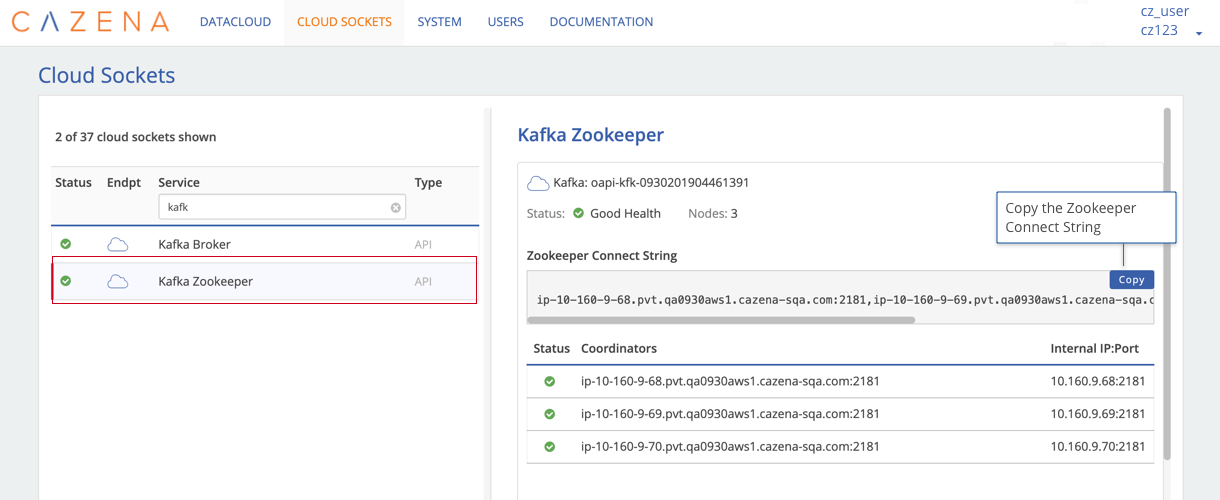
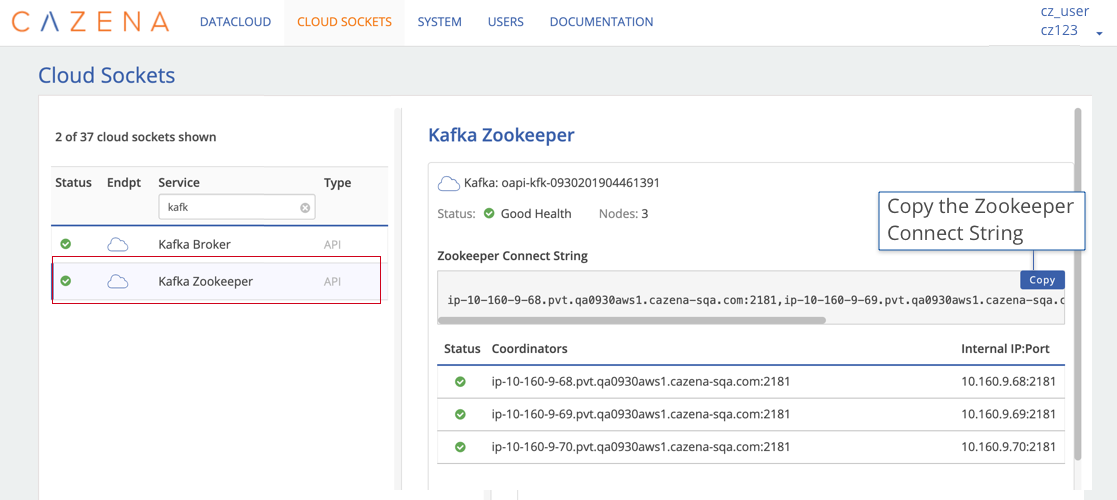
Update screenshots Remove outdated sections

diff --git a/_site/index.html b/_site/index.html
@@ -151,15 +151,15 @@ sasl.jaas.config=com.sun.security.auth.module.Krb5LoginModule required \
 <button class="btn clipboard-btn" data-clipboard-target="#kafka-consumer-string">Copy</button>
 </div>
 
-<ul>
+<ul class="indent">
   <li>Replace <strong>BootstrapBrokerString</strong> with the string copied from the Kafka Broker cloud socket page.</li>
   <li>Replace <strong>client.properties</strong> with the name of the file that you created in step 1.</li>
   <li>Replace <strong>yourtopic</strong> with your kafka topic.</li>
 </ul>
 
-<h5 class="indent indent" id="topic">Topic</h5>
+<h5 class="indent" id="topic">Topic</h5>
 
-<p><img src="assets/documentation/cloud_sockets/kafka_zookeeper.png" alt=" Kafka Broker String " title="Kafka Zookeeper String" /></p>
+<p class="indent"><img src="assets/documentation/cloud_sockets/kafka_zookeeper.png" alt=" Kafka Broker String " title="Kafka Zookeeper String" /></p>
 
 <div class="code-wrapper">
 <pre class="indent copy-area" id="kafka-topic-string">kafka-topics --create --zookeeper <span style="color:red">ZookeeperConnectString</span> --replication-factor 1 --partitions 1 --topic <span style="color:red">yourtopic</span> 
@@ -216,7 +216,7 @@ sasl.jaas.config=com.sun.security.auth.module.Krb5LoginModule required \
   <li>Add <code class="highlighter-rouge">,SSL=1</code> to the connection string, before the final parentheses.</li>
 </ol>
 
-<p><img src="assets/documentation/cloud_sockets/hive_connection.png" alt=" Hive Connection " title="Hive Connection" /></p>
+<p class="indent"><img src="assets/documentation/cloud_sockets/hive_connection.png" alt=" Hive Connection " title="Hive Connection" /></p>
 
 <hr class="end-section" />
 
@@ -371,49 +371,6 @@ HIVE_HOME=/opt/cloudera/parcels/CDH/lib/hive
 
 <hr class="end-section" />
 
-<h2 id="sql_workbench">Use JDBC to connect to SQL Workbench</h2>
-
-<p>This example shows how to use SQL Workbench to query a database in a data mart.</p>
-
-<ul>
-  <li>You can download SQL Workbench <a href="http://www.sql-workbench.net/downloads.html" target="_blank">here</a>.</li>
-  <li>You will also need a postgreSQL JDBC driver, which you can download <a href="https://jdbc.postgresql.org/download.html" target="_blank">here</a>.</li>
-</ul>
-
-<p class="step">Step 1: Copy the IP Address and Port for MPP SQL</p>
-
-<ol>
-  <li>In the Cazena console: From the <strong>Cloud Sockets</strong> tab, select <strong>MPP SQL</strong> on the left side of the screen.</li>
-  <li>Under <strong>From inside the datacloud</strong>, copy the <strong>Internal IP:Port</strong> address and port.</li>
-</ol>
-
-<p class="indent"><img src="assets/documentation/cloud_sockets/mpp_sql.png" alt=" MPP SQL " title="MPP SQL" /></p>
-
-<p class="step">Step 1: Paste the IP Address and Port into SQL Workbench</p>
-
-<ol>
-  <li>Start SQL Workbench, then select <strong>File</strong> &gt; <strong>Connect Window</strong>.</li>
-  <li>Select a PostgreSQL JDBC driver (download here)</li>
-  <li>
-    <p>Enter the URL:</p>
-
-    <p><code class="highlighter-rouge">jdbc:postgres://IP ADDRESS:PORT/czdataset</code></p>
-
-    <p>where:</p>
-
-    <ul>
-      <li>IP ADDRESS:PORT comes from the Cloud Sockets tab.</li>
-      <li>If you moved data using the Cazena console, use <strong>czdataset</strong> as the name of the database.</li>
-    </ul>
-  </li>
-  <li>Ask your system administrator for the username and password.</li>
-</ol>
-
-<p class="image-no-outline"><img src="assets/documentation/cloud_sockets/SQL_workbench.png" alt=" SQL Workbench " title="SQL Workbench" /></p>
-
-<p class="note"><strong>Note:</strong> Data moved to a Cazena data mart goes into a database named <strong>czdataset</strong>. The schema name matches the name of the dataset used when moving data into the cloud.</p>
-
-<hr class="end-section" />
 
         </section>
 
@@ -1124,36 +1081,6 @@ Beginning Download Tests:
 Complete
 </code></pre></div></div>
 
-<p><br />
-<strong>Measure latency and throughput from an external Linux or Mac system:</strong></p>
-
-<p>You can use <code class="highlighter-rouge">nping</code> and <code class="highlighter-rouge">wget</code> to measure latency and throughput through the Cazena gateway.</p>
-
-<ol>
-  <li>
-    <p>On the <strong>Cloud Sockets</strong> tab, select <strong>Cazena Console</strong> on the left side of the screen.</p>
-
-    <p><img src="assets/documentation/cazena_gateway/cgw_ip_port.png" alt=" Cazena Gateway IP and port " title="Cazena Gateway IP and port" /></p>
-  </li>
-  <li>
-    <p>Use <strong>IP Address:Port</strong> to run these commands:</p>
-
-    <ul class="list-unstyled">
-      <li><code class="highlighter-rouge">nping &lt;IP address&gt; -p &lt;PORT&gt;</code></li>
-      <li><code class="highlighter-rouge">wget -O /dev/null http://&lt;IP address&gt;:&lt;PORT&gt; /CazenaGateway.ova</code>
- *</li>
-    </ul>
-
-    <p><br />
-<strong>Example:</strong></p>
-
-    <ul class="list-unstyled">
-      <li><code class="highlighter-rouge">nping 	192.131.12.2 -p 11092</code></li>
-      <li><code class="highlighter-rouge">wget -O /dev/null http://192.131.12.2:11092/CazenaGateway.ova</code></li>
-    </ul>
-  </li>
-</ol>
-
 <h2 id="cgw_delete">Stop and Delete a Cazena Gateway</h2>
 
 <p><strong>To stop a Cazena gateway:</strong></p>
@@ -1207,7 +1134,7 @@ Complete
 
 <h2 id="create_users">Create User Accounts</h2>
 
-<p class="step">Before You Start</p>
+<p class="step">For Port Forwarding Configurations</p>
 
 <p class="list">If your site is using a <a href="#port-forwarding-cgw">port forwarding</a> configuration, you must have a Cazena gateway running before you can create new user accounts. In addition, the Cazena console must be enabled on that gateway:</p>
 
@@ -1247,97 +1174,31 @@ Complete
   </thead>
   <tbody>
     <tr>
-      <td>Service Page</td>
-      <td style="text-align: center"><span class="icon-checkmark"></span></td>
-      <td style="text-align: center"><span class="icon-checkmark"></span></td>
-      <td style="text-align: center"><span class="icon-checkmark"></span></td>
-    </tr>
-    <tr>
-      <td>Transfers</td>
-      <td style="text-align: center"><span class="icon-checkmark"></span></td>
-      <td style="text-align: center"><span class="icon-checkmark"></span></td>
-      <td style="text-align: center"><span class="icon-checkmark"></span></td>
-    </tr>
-    <tr>
-      <td>Move Data</td>
-      <td style="text-align: center"><span class="icon-checkmark"></span></td>
-      <td style="text-align: center"> </td>
-      <td style="text-align: center"> </td>
-    </tr>
-    <tr>
-      <td>Modify Datasets</td>
-      <td style="text-align: center"><span class="icon-checkmark"></span></td>
-      <td style="text-align: center"> </td>
-      <td style="text-align: center"> </td>
-    </tr>
-    <tr>
-      <td>Add User</td>
-      <td style="text-align: center"><span class="icon-checkmark"></span></td>
-      <td style="text-align: center"> </td>
-      <td style="text-align: center"> </td>
-    </tr>
-    <tr>
-      <td>Delete User</td>
-      <td style="text-align: center"><span class="icon-checkmark"></span></td>
-      <td style="text-align: center"> </td>
-      <td style="text-align: center"> </td>
-    </tr>
-    <tr>
-      <td>Modify User</td>
-      <td style="text-align: center"><span class="icon-checkmark"></span></td>
-      <td style="text-align: center"> </td>
-      <td style="text-align: center"> </td>
-    </tr>
-    <tr>
-      <td>Dashboard Page</td>
-      <td style="text-align: center"><span class="icon-checkmark"></span></td>
-      <td style="text-align: center"><span class="icon-checkmark"></span></td>
-      <td style="text-align: center"><span class="icon-checkmark"></span></td>
-    </tr>
-    <tr>
-      <td>Workloads Page</td>
-      <td style="text-align: center"><span class="icon-checkmark"></span></td>
-      <td style="text-align: center"><span class="icon-checkmark"></span></td>
-      <td style="text-align: center"><span class="icon-checkmark"></span></td>
-    </tr>
-    <tr>
-      <td>System Page</td>
-      <td style="text-align: center"><span class="icon-checkmark"></span></td>
-      <td style="text-align: center"><span class="icon-checkmark"></span></td>
-      <td style="text-align: center"><span class="icon-checkmark"></span></td>
-    </tr>
-    <tr>
-      <td>Edit Cloud Sockets</td>
-      <td style="text-align: center"><span class="icon-checkmark"></span></td>
-      <td style="text-align: center"> </td>
-      <td style="text-align: center"> </td>
-    </tr>
-    <tr>
       <td>View Cloud Sockets</td>
       <td style="text-align: center"><span class="icon-checkmark"></span></td>
       <td style="text-align: center"><span class="icon-checkmark"></span></td>
       <td style="text-align: center"><span class="icon-checkmark"></span></td>
     </tr>
     <tr>
-      <td>Create/Edit Data Store</td>
-      <td style="text-align: center"><span class="icon-checkmark"></span></td>
-      <td style="text-align: center"><span class="icon-checkmark"></span></td>
-      <td style="text-align: center"> </td>
-    </tr>
-    <tr>
-      <td>Delete Data Store</td>
-      <td style="text-align: center"><span class="icon-checkmark"></span></td>
-      <td style="text-align: center"><span class="icon-checkmark"></span></td>
-      <td style="text-align: center"> </td>
-    </tr>
-    <tr>
-      <td>Access to Admin Tools Menu</td>
+      <td>Manage Cloud Sockets</td>
       <td style="text-align: center"><span class="icon-checkmark"></span></td>
       <td style="text-align: center"> </td>
       <td style="text-align: center"> </td>
     </tr>
     <tr>
-      <td>Access to Log Server Console</td>
+      <td>Manage Users and Groups</td>
+      <td style="text-align: center"><span class="icon-checkmark"></span></td>
+      <td style="text-align: center"> </td>
+      <td style="text-align: center"> </td>
+    </tr>
+    <tr>
+      <td>View Cazena Gateways</td>
+      <td style="text-align: center"><span class="icon-checkmark"></span></td>
+      <td style="text-align: center"><span class="icon-checkmark"></span></td>
+      <td style="text-align: center"><span class="icon-checkmark"></span></td>
+    </tr>
+    <tr>
+      <td>Manage Cazena Gateways</td>
       <td style="text-align: center"><span class="icon-checkmark"></span></td>
       <td style="text-align: center"> </td>
       <td style="text-align: center"> </td>

diff --git a/_sections/users.md b/_sections/users.md
@@ -5,7 +5,7 @@ Cazena support will create a system administrator account. The administrator wil
 
 ## Create User Accounts {#create_users}
 
-Before You Start
+For Port Forwarding Configurations
 {:.step}
 
 If your site is using a [port forwarding](#port-forwarding-cgw) configuration, you must have a Cazena gateway running before you can create new user accounts. In addition, the Cazena console must be enabled on that gateway:
@@ -37,23 +37,11 @@ Privileges for the different Cazena user roles are as follows:
 
 | Feature             | System Admin                         | Application Support                  | Data Analyst                         |
 |----------------------------|:------------------------------------:|:------------------------------------:|:------------------------------------:|
-| Service Page               | <span class="icon-checkmark"></span> | <span class="icon-checkmark"></span> | <span class="icon-checkmark"></span> |
-| Transfers                  | <span class="icon-checkmark"></span> | <span class="icon-checkmark"></span> | <span class="icon-checkmark"></span> |
-| Move Data                  | <span class="icon-checkmark"></span> |    | |
-| Modify Datasets            | <span class="icon-checkmark"></span> |      |      |
-| Add User                   | <span class="icon-checkmark"></span> |      |      |
-| Delete User                | <span class="icon-checkmark"></span> |      |      |
-| Modify User                | <span class="icon-checkmark"></span> |      |      |
-| Dashboard Page             | <span class="icon-checkmark"></span> | <span class="icon-checkmark"></span> | <span class="icon-checkmark"></span> |
-| Workloads Page             | <span class="icon-checkmark"></span> | <span class="icon-checkmark"></span> | <span class="icon-checkmark"></span> |
-| System Page                | <span class="icon-checkmark"></span> | <span class="icon-checkmark"></span> | <span class="icon-checkmark"></span> |
-| Edit Cloud Sockets         | <span class="icon-checkmark"></span> |      |      |
-| View Cloud Sockets         | <span class="icon-checkmark"></span> | <span class="icon-checkmark"></span> | <span class="icon-checkmark"></span> |
-| Create/Edit Data Store     | <span class="icon-checkmark"></span> | <span class="icon-checkmark"></span> |      |
-| Delete Data Store          | <span class="icon-checkmark"></span> | <span class="icon-checkmark"></span> |      |
-| Access to Admin Tools Menu | <span class="icon-checkmark"></span> |      |      | 
-| Access to Log Server Console | <span class="icon-checkmark"></span> |      |      |
-
+| View Cloud Sockets               | <span class="icon-checkmark"></span> | <span class="icon-checkmark"></span> | <span class="icon-checkmark"></span> |
+| Manage Cloud Sockets         | <span class="icon-checkmark"></span> |      |      |
+| Manage Users and Groups                   | <span class="icon-checkmark"></span> |      |      |
+| View Cazena Gateways        | <span class="icon-checkmark"></span> | <span class="icon-checkmark"></span> | <span class="icon-checkmark"></span> |
+| Manage Cazena Gateways        | <span class="icon-checkmark"></span> |  |  |
 
 
 ## Create Groups

diff --git a/_sections/cloud_sockets.md b/_sections/cloud_sockets.md
@@ -82,7 +82,6 @@ sasl.jaas.config=com.sun.security.auth.module.Krb5LoginModule required \
   * Replace __BootstrapBrokerString__ with the string copied from the Kafka Broker cloud socket page.
   * Replace __client.properties__ with the name of the file that you created in step 1.
   * Replace __yourtopic__ with your kafka topic. 
-
   {:.indent}
 
 
@@ -90,6 +89,7 @@ sasl.jaas.config=com.sun.security.auth.module.Krb5LoginModule required \
 {:.indent}
 
 ![ Kafka Broker String ](assets/documentation/cloud_sockets/kafka_zookeeper.png "Kafka Zookeeper String")
+{:.indent}
 
 <div class="code-wrapper">
 <pre class="indent copy-area" id="kafka-topic-string">kafka-topics --create --zookeeper <span style="color:red">ZookeeperConnectString</span> --replication-factor 1 --partitions 1 --topic <span style="color:red">yourtopic</span> 
@@ -144,7 +144,7 @@ Step 2: Add the Hostname and Port to the Connection Pane
 
 
 ![ Hive Connection ](assets/documentation/cloud_sockets/hive_connection.png "Hive Connection")
-
+{:.indent}
 
 ---
 {:.end-section}
@@ -299,45 +299,3 @@ From the RStudio web client or a Hue notebook:
 ---
 {:.end-section}
 
-## Use JDBC to connect to SQL Workbench {#sql_workbench}
-
-This example shows how to use SQL Workbench to query a database in a data mart.
-
-* You can download SQL Workbench <a href="http://www.sql-workbench.net/downloads.html" target="_blank">here</a>.
-* You will also need a postgreSQL JDBC driver, which you can download <a href="https://jdbc.postgresql.org/download.html" target="_blank">here</a>.
-
-Step 1: Copy the IP Address and Port for MPP SQL
-{:.step}
-
-1. In the Cazena console: From the __Cloud Sockets__ tab, select __MPP SQL__ on the left side of the screen.
-1. Under __From inside the datacloud__, copy the __Internal IP:Port__ address and port.
-
-![ MPP SQL ](assets/documentation/cloud_sockets/mpp_sql.png "MPP SQL")
-{:.indent}
-
-
-Step 1: Paste the IP Address and Port into SQL Workbench
-{:.step}
-
-1. Start SQL Workbench, then select __File__ > __Connect Window__.
-1. Select a PostgreSQL JDBC driver (download here)
-1. Enter the URL:
-
-    `jdbc:postgres://IP ADDRESS:PORT/czdataset`
-    
-    where:
-
-    * IP ADDRESS:PORT comes from the Cloud Sockets tab.
-    * If you moved data using the Cazena console, use __czdataset__ as the name of the database. 
-    
-1. Ask your system administrator for the username and password.
-
-![ SQL Workbench ](assets/documentation/cloud_sockets/SQL_workbench.png "SQL Workbench")
-{:.image-no-outline}
-
-
-__Note:__ Data moved to a Cazena data mart goes into a database named __czdataset__. The schema name matches the name of the dataset used when moving data into the cloud.
-{:.note}
-
----
-{:.end-section}

diff --git a/_sections/cazena_gateway.md b/_sections/cazena_gateway.md
@@ -552,28 +552,6 @@ __Sample throughput test__
       CGW Software speed: 35.79 MBps, 286.33 Mbps; size: 107.37 MB
     Complete
 
-<br>
-__Measure latency and throughput from an external Linux or Mac system:__
-
-You can use `nping` and `wget` to measure latency and throughput through the Cazena gateway.
-
-1. On the __Cloud Sockets__ tab, select __Cazena Console__ on the left side of the screen.
-
-    ![ Cazena Gateway IP and port ](assets/documentation/cazena_gateway/cgw_ip_port.png "Cazena Gateway IP and port")
-
-2. Use __IP Address:Port__ to run these commands:
-
-    * `nping <IP address> -p <PORT>`
-    * `wget -O /dev/null http://<IP address>:<PORT> /CazenaGateway.ova`
-    *
-    {:.list-unstyled}
-
-    <br>
-   __Example:__
-
-   * `nping 	192.131.12.2 -p 11092`
-   *  `wget -O /dev/null http://192.131.12.2:11092/CazenaGateway.ova`
-   {:.list-unstyled}
 
 
 
